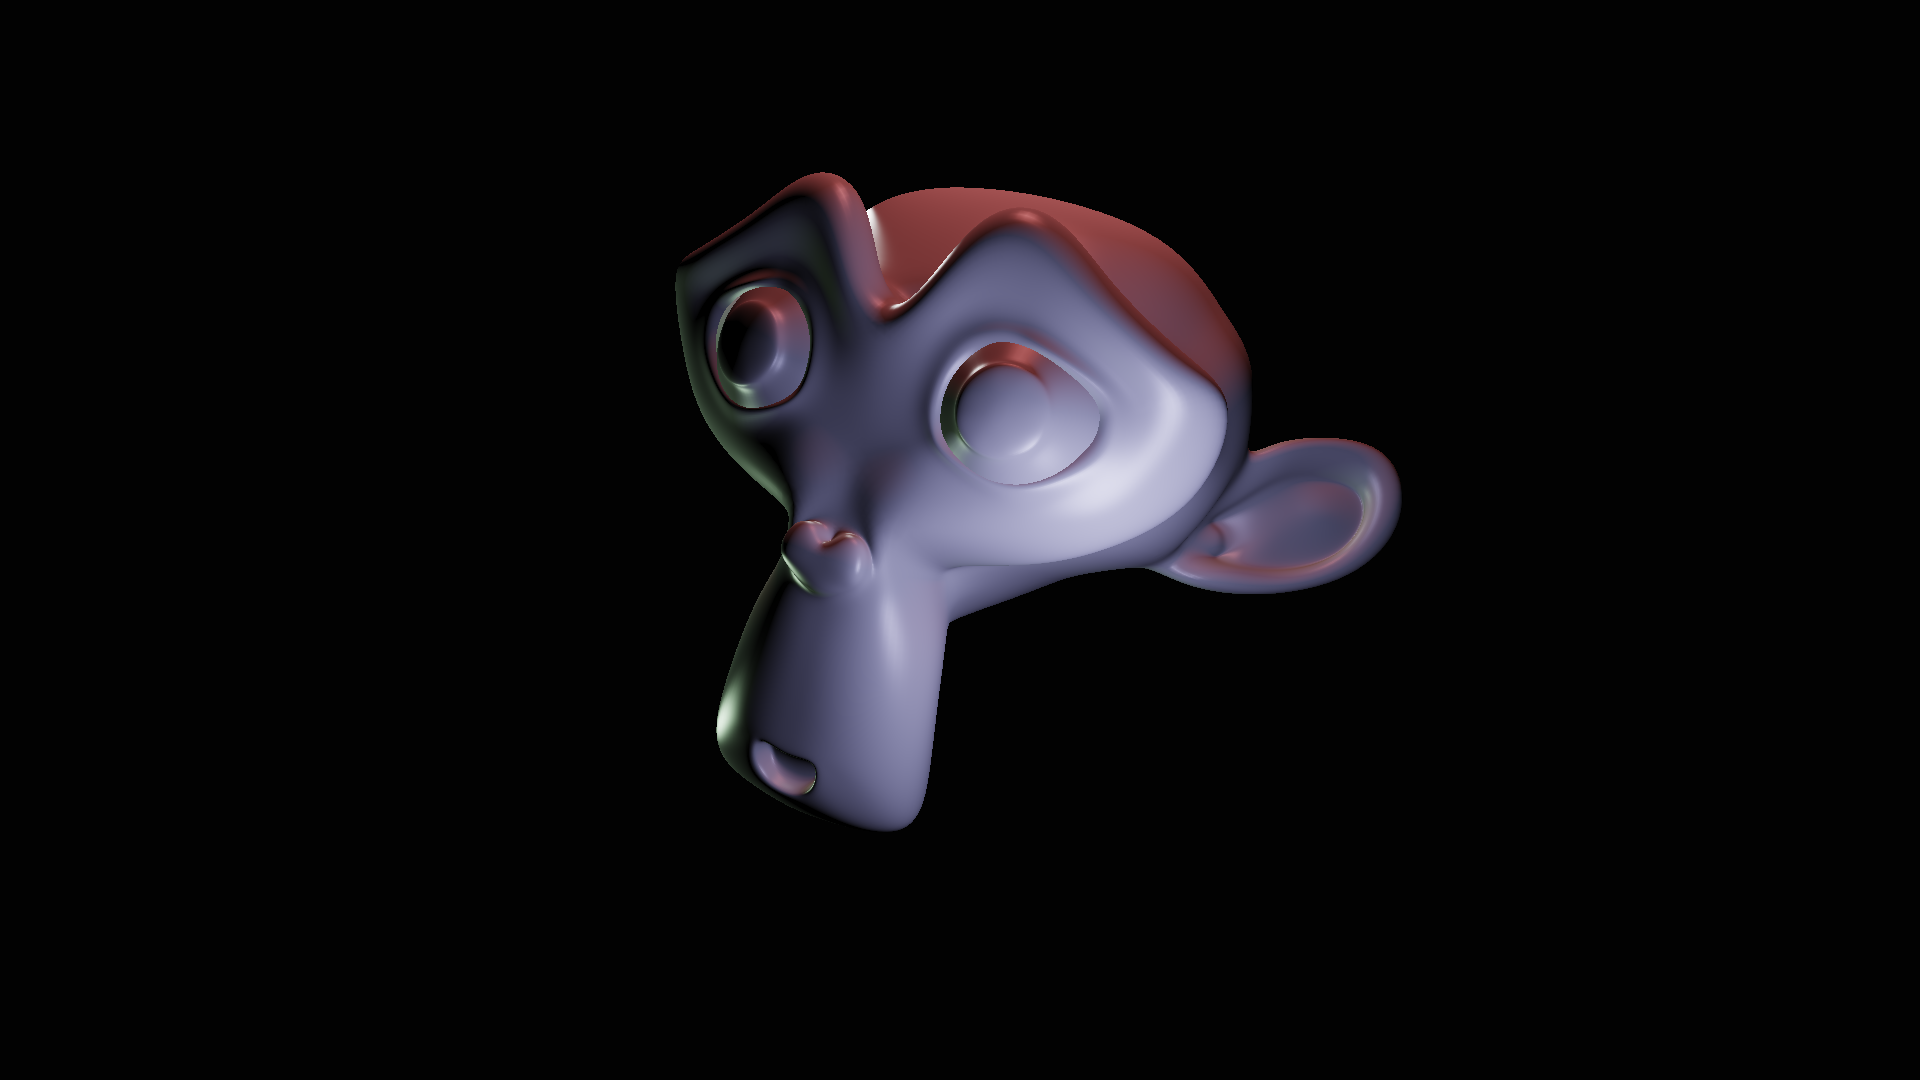
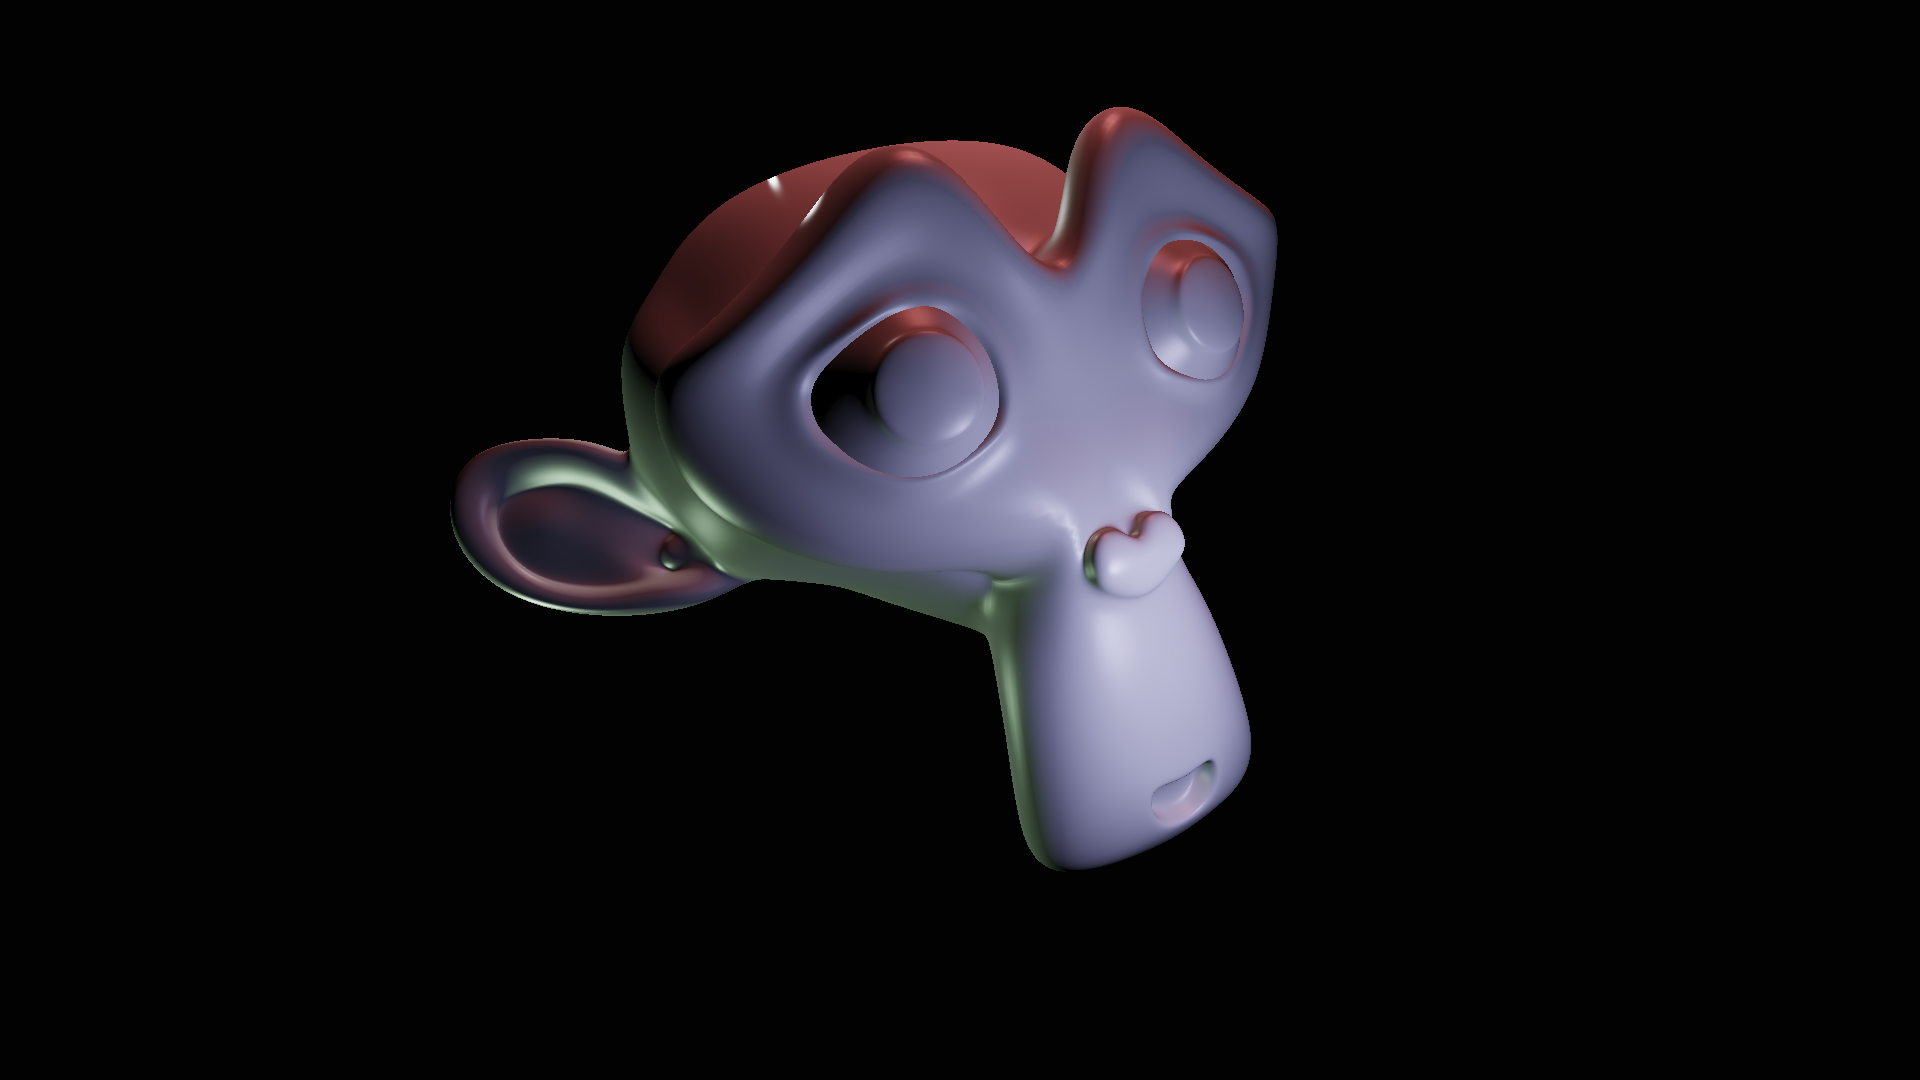
Make the full_example reusable as a library

Changed region(s): [[0.2188, 0.0917, 0.75, 0.825]]

diff --git a/full_example/src/main.rs b/full_example/src/main.rs
@@ -1,75 +1,27 @@
-extern crate nalgebra;
-extern crate tobj;
-extern crate image;
-extern crate rayon;
-#[macro_use]
 extern crate softrender;
-
-use nalgebra::{Vector3, Point3, Perspective3, Isometry3};
+extern crate full_example;
 
 use softrender::render::{FrameBuffer, Pipeline};
 use softrender::image_compat::ImageFrameBuffer;
 
-pub mod color;
-pub mod mesh;
-pub mod texture;
-pub mod light;
-pub mod uniforms;
-pub mod shaders;
-
-use self::color::Color;
-use self::light::Light;
-use self::uniforms::GlobalUniforms;
-
-fn generate_global_uniforms(aspect_ratio: f32) -> GlobalUniforms {
-    // Create the model transform
-    let model = Isometry3::new(Vector3::new(0.0, 0.0, 0.0),
-                               Vector3::new(0.0, 0.0, 0.0));
-
-    // Define camera position
-    let camera_position = Point3::new(1.0, 2.2, 2.0);
-
-    // Create view matrix from camera position and look-at target
-    let view = Isometry3::look_at_rh(
-        &camera_position,
-        &Point3::new(0.0, 0.25, 0.0),
-        &Vector3::new(0.0, 1.0, 0.0)
-    ).to_homogeneous();
-
-    // Create a perspective projection matrix
-    let projection = Perspective3::new(aspect_ratio, 65.0f32.to_radians(), 0.1, 1000.0).to_homogeneous();
-
-    // Convenience variable to tweak distance of lights from object
-    let light_scale = 1.0;
-
-    GlobalUniforms {
-        camera: camera_position.to_homogeneous(),
-        model: model.to_homogeneous(),
-        model_inverse_transpose: model.inverse().to_homogeneous().transpose(),
-        view: view,
-        projection: projection,
-        // Create a few lights with varying colors, intensities and locations
-        lights: vec![
-            Light::new_white(Point3::new(light_scale * -1.0, light_scale * 1.0, light_scale * -1.0), 9.0),
-            Light::new(Point3::new(light_scale * 1.0, light_scale * 1.0, light_scale * 1.0), 9.0, Color { r: 0.6, g: 0.6, b: 1.0, a: 1.0 }),
-            Light::new(Point3::new(light_scale * 0.0, light_scale * 3.0, light_scale * -1.0), 25.0, Color { r: 1.0, g: 0.3, b: 0.3, a: 1.0 }),
-            Light::new(Point3::new(light_scale * -2.0, light_scale * -1.0, light_scale * 1.0), 25.0, Color { r: 0.7, g: 1.0, b: 0.7, a: 1.0 }),
-        ]
-    }
-}
+use full_example::color::{self, Color};
+use full_example::generate_global_uniforms;
 
 fn main() {
     // Create the image framebuffer with a near-black background
     let framebuffer = FrameBuffer::<Color>::new_with(1920, 1080, Color { r: 0.01, g: 0.01, b: 0.01, a: 1.0 });
 
     // Create any global uniforms you wish the shaders to have access to.
-    let global_uniforms = generate_global_uniforms(framebuffer.width() as f32 / framebuffer.height() as f32);
+    let global_uniforms = generate_global_uniforms(framebuffer.width() as f32 / framebuffer.height() as f32,
+                                                   75.0f32.to_radians(), 2.0,
+                                                   45.0f32.to_radians(),
+                                                   65.0f32.to_radians());
 
     // Create the graphics pipeline from the spawned framebuffer
     let mut pipeline = Pipeline::new(framebuffer, global_uniforms);
 
     // Load any meshes
-    let meshes = self::mesh::load_model("assets/models/suzanne_highres.obj");
+    let meshes = full_example::mesh::load_model("assets/models/suzanne_highres.obj");
 
     // Iterator through all the meshes
     for mesh in &meshes {
@@ -77,12 +29,12 @@ fn main() {
         let vertex_shader = pipeline.render_mesh(mesh.mesh.clone());
 
         // Run the vertex shader, which returns the fragment shader
-        let mut fragment_shader = vertex_shader.run(self::shaders::vertex_shader);
+        let mut fragment_shader = vertex_shader.run(full_example::shaders::vertex_shader);
 
         // Set our pixel blend function
         fragment_shader.set_blend_function(|a, b| color::blend(a, b));
 
-        fragment_shader.triangles(self::shaders::fragment_shader);
+        fragment_shader.triangles(full_example::shaders::fragment_shader);
     }
 
     println!("Saving to image");

diff --git a/full_example/src/lib.rs b/full_example/src/lib.rs
@@ -1,0 +1,70 @@
+extern crate nalgebra;
+extern crate tobj;
+extern crate image;
+extern crate rayon;
+
+#[macro_use]
+extern crate softrender;
+
+pub mod color;
+pub mod mesh;
+pub mod texture;
+pub mod light;
+pub mod uniforms;
+pub mod shaders;
+
+use nalgebra::{Vector3, Point3, Perspective3, Isometry3, Matrix4};
+
+use self::color::Color;
+use self::light::Light;
+use self::uniforms::GlobalUniforms;
+
+pub fn model_matrix(rotation: f32) -> (Matrix4<f32>, Matrix4<f32>) {
+    let transform = Isometry3::new(Vector3::new(0.0, 0.0, 0.0),
+                                   Vector3::new(0.0, rotation, 0.0));
+
+    (transform.to_homogeneous(),
+     transform.inverse().to_homogeneous().transpose())
+}
+
+pub fn generate_global_uniforms(aspect_ratio: f32,
+                                camera_rotation: f32,
+                                camera_distance: f32,
+                                object_rotation: f32,
+                                fov: f32) -> GlobalUniforms {
+    // Create the model transform
+    let (model, mit) = model_matrix(object_rotation);
+
+    // Define camera position
+    let camera_position = Point3::new(camera_rotation.cos() * camera_distance,
+                                      camera_distance,
+                                      camera_rotation.sin() * camera_distance);
+
+    // Create view matrix from camera position and look-at target
+    let view = Isometry3::look_at_rh(
+        &camera_position,
+        &Point3::new(0.0, 0.25, 0.0),
+        &Vector3::new(0.0, 1.0, 0.0)
+    ).to_homogeneous();
+
+    // Create a perspective projection matrix
+    let projection = Perspective3::new(aspect_ratio, fov, 0.1, 1000.0).to_homogeneous();
+
+    // Convenience variable to tweak distance of lights from object
+    let light_scale = 1.0;
+
+    GlobalUniforms {
+        camera: camera_position.to_homogeneous(),
+        model: model,
+        model_inverse_transpose: mit,
+        view: view,
+        projection: projection,
+        // Create a few lights with varying colors, intensities and locations
+        lights: vec![
+            Light::new_white(Point3::new(light_scale * -1.0, light_scale * 1.0, light_scale * -1.0), 9.0),
+            Light::new(Point3::new(light_scale * 1.0, light_scale * 1.0, light_scale * 1.0), 9.0, Color { r: 0.6, g: 0.6, b: 1.0, a: 1.0 }),
+            Light::new(Point3::new(light_scale * 0.0, light_scale * 3.0, light_scale * -1.0), 25.0, Color { r: 1.0, g: 0.3, b: 0.3, a: 1.0 }),
+            Light::new(Point3::new(light_scale * -2.0, light_scale * -1.0, light_scale * 1.0), 25.0, Color { r: 0.7, g: 1.0, b: 0.7, a: 1.0 }),
+        ]
+    }
+}

diff --git a/full_example/README.md b/full_example/README.md
@@ -6,3 +6,5 @@ softrender example project
 A relatively simple project demonstrating softrender's usage of meshes, uniforms, shaders and so forth.
 
 The shading is done with simple Lambertian diffuse and Blinn-Phong specular reflections of points lights.
+
+To run: `cargo run --bin main --release`
